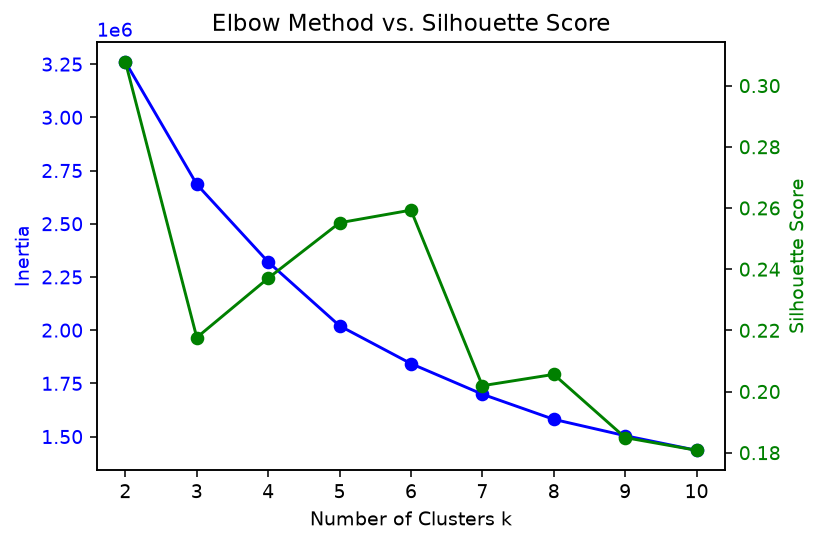
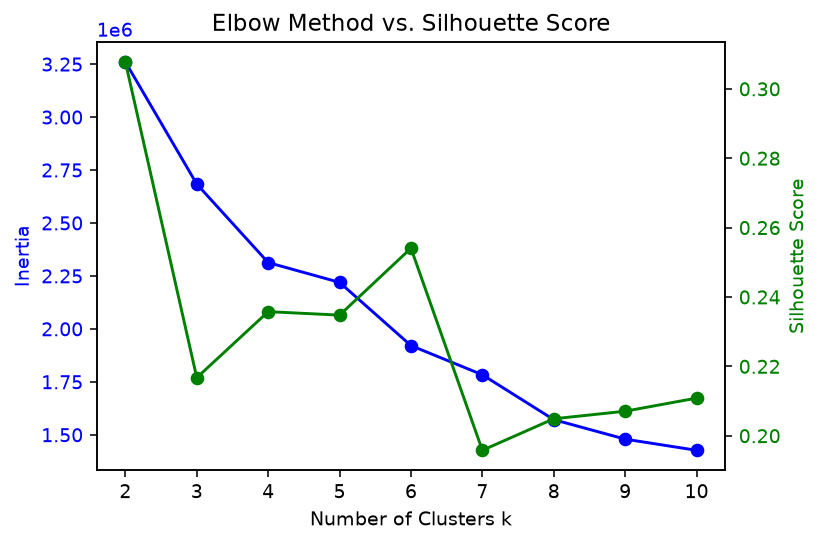
Redid KMeans and DBSCAN (3rd times the charm), updates plots, feature averages and added a legend to KMeans clustering plot (Not dbscan as over 20 clusters).

diff --git a/clustering/clusteringDBSCAN.py b/clustering/clusteringDBSCAN.py
@@ -12,16 +12,15 @@ from sklearn.decomposition import PCA
 pd.set_option('display.max_columns', 120)
 pd.set_option('display.width', 160)
 
-DATASET = "C:/Users/lollo/Documents/School/Comp tech/Assignment2/final_dataset.csv"
+DATASET = "data/processed/final_dataset.csv"
 essays = pd.read_csv(DATASET)
 
 # print(essays.head(10))
 
 # print(essays.columns.tolist())
 
-# print("dtypes ", set(essays.dtypes.astype(str))) # still has string
-# print("missing ", essays.isnull().sum().sum()) # 0
-# print("duplicates ", essays.duplicated().sum()) # 0
+# print("missing: ", essays.isnull().sum().sum()) # 0
+# print("duplicates: ", essays.duplicated().sum()) # 0
 
 CHARTS = "charts"
 os.makedirs(CHARTS, exist_ok=True)
@@ -50,16 +49,16 @@ X_V2_scaled = StandardScaler().fit_transform(X_V2)
 
 # plt.plot(np.sort(distance[:, -1]))
 # plt.ylim(0, 4)
-# # plt.axhline(0.3, color="pink", ls="--")
+# plt.axhline(1, color="pink", ls="--")
 # plt.xlabel("points, sorted by distance to their 16th neighbour")
 # plt.ylabel("distance")
 # save("init_k_distance.png")
 
 # | Test For Best Epsilon Number | 
 
-# X_test_sample = X_V2_scaled[np.random.RandomState(42).choice(len(X_V2_scaled), 50000, replace=False)]
+# X_test_sample = X_V2_scaled[np.random.RandomState(42).choice(len(X_V2_scaled), 150000, replace=False)]
 
-# for eps in [0.5, 0.8, 1, 1.3 , 1.5]:
+# for eps in [0.5, 0.8, 1, 1.3]:
 #     print(f"eps={eps}: ")
 #     test = DBSCAN(eps=eps, min_samples=16).fit_predict(X_test_sample)
 #     n_clusters = len(set(test)) - (1 if -1 in test else 0)
@@ -69,31 +68,19 @@ X_V2_scaled = StandardScaler().fit_transform(X_V2)
     
 # | Results | 
 # eps=0.5: 
-# Found 17 clusters.
-# Noise is: 15226 (30.5%)
+# Found 43 clusters.
+# Noise is: 28379 (18.9%)
 # eps=0.8: 
-# Found 13 clusters.
-# Noise is: 4652 (9.3%)
-# eps=1:  Picking 1 for its reasonable noise % and cluster count.
-# Found 13 clusters.
-# Noise is: 2413 (4.8%)
+# Found 28 clusters.
+# Noise is: 7576 (5.1%)
+# eps=1: 
+# Found 22 clusters.
+# Noise is: 3771 (2.5%)
 # eps=1.3: 
-# Found 10 clusters.
-# Noise is: 1118 (2.2%)
-# eps=1.5: 
-# Found 11 clusters.
-# Noise is: 721 (1.4%)    
+# Found 18 clusters.
+# Noise is: 1473 (1.0%) 
 
-# | Check Outliers & Their Validity | 
-# print(np.sort(distance[:, -1])[-30:])
-# outlier_pos = np.where(distance[:, -1] > 20)
-# print(outlier_pos)
-# # All printed strange strings of random alphanumeric strings and ending with "Please explain like im five."
-# print("1:", ai_gen_essays.iloc[441145]['text'])
-# print("\n 2:", ai_gen_essays.iloc[484810]['text'])
-# print("\n 3:",ai_gen_essays.iloc[509270]['text'])
-# print("\n 4:",ai_gen_essays.iloc[512775]['text'])
-# print("\n 5:",ai_gen_essays.iloc[514742]['text'])
+
 
 # | DBSCAN Clustering :D | 
 
@@ -113,20 +100,22 @@ print(f"Noise is: {noise} ({noise/len(db):.1%})")
 
 sample_set['dbscan_cluster'] = db
 
-# overall, spread = X_V2.mean(), X_V2.std()
-# for c in sorted(sample_set.dbscan_cluster.unique()):
-#     g = sample_set[sample_set.dbscan_cluster == c]
-#     z = (g[FEATURES_V2].mean() - overall) / spread # in standard deviations
-#     label = "NOISE" if c == -1 else f"cluster {c}" # decide whether actual cluster or noise
-#     print(f"\n{label} n={len(g)}")
-#     print(" more:", z.nlargest(2).round(2).to_dict())
-#     print(" less:", z.nsmallest(2).round(2).to_dict())
+overall, spread = X_V2.mean(), X_V2.std()
+for c in sorted(sample_set.dbscan_cluster.unique()):
+    g = sample_set[sample_set.dbscan_cluster == c]
+    z = (g[FEATURES_V2].mean() - overall) / spread # in standard deviations
+    label = "NOISE" if c == -1 else f"cluster {c}" # decide whether actual cluster or noise
+    print(f"\n{label} n={len(g)}")
+    print(" more:", z.nlargest(2).round(2).to_dict())
+    print(" less:", z.nsmallest(2).round(2).to_dict())
     
 
-# P = PCA(n_components=2, random_state=42).fit_transform(X_Sample)
-# plt.scatter(P[:, 0], P[:, 1], c=db, s=8, cmap="viridis")
-# plt.title('DBSCAN Clustering of AI Generated Class')
-# save("DBSCAN_Cluster_Plot.png")
+P = PCA(n_components=2, random_state=42).fit_transform(X_Sample)
+scatter = plt.scatter(P[:, 0], P[:, 1], c=db, s=8, cmap="viridis")
+# handles, cluster_labels = scatter.legend_elements()
+# plt.legend(handles=handles, labels=cluster_labels, title= "Cluster #")
+plt.title('DBSCAN Clustering of AI Generated Class')
+save("DBSCAN_Cluster_Plot.png")
 
 
 # | Sentence Examples From Each Cluster |
@@ -141,9 +130,9 @@ sample_set['dbscan_cluster'] = db
 
 # | Silhouette Score For DBSCAN |
 
-no_noise = db != -1
-sil_score = silhouette_score(X_Sample[no_noise], db[no_noise], sample_size=20000, random_state=42)
-print(f"Silhouette Score (No Noise): {sil_score:.3f}") # Silhouette Score (No Noise): 0.201
+# no_noise = db != -1
+# sil_score = silhouette_score(X_Sample[no_noise], db[no_noise], sample_size=20000, random_state=42)
+# print(f"Silhouette Score (No Noise): {sil_score:.3f}") # Silhouette Score (No Noise): 0.201
 
-sil_score = silhouette_score(X_Sample, db, sample_size=20000, random_state=42)
-print(f"Silhouette Score (Noise): {sil_score:.3f}") # Silhouette Score (Noise): 0.188
+# sil_score = silhouette_score(X_Sample, db, sample_size=20000, random_state=42)
+# print(f"Silhouette Score (Noise): {sil_score:.3f}") # Silhouette Score (Noise): 0.188

diff --git a/clustering/clusteringKmeans.py b/clustering/clusteringKmeans.py
@@ -8,10 +8,11 @@ from sklearn.cluster import KMeans
 from sklearn.metrics import silhouette_score
 from sklearn.decomposition import PCA
 
+
 pd.set_option('display.max_columns', 120)
 pd.set_option('display.width', 160)
 
-DATASET = "C:/Users/lollo/Documents/School/Comp tech/Assignment2/final_dataset.csv"
+DATASET = "data/processed/final_dataset.csv"
 essays = pd.read_csv(DATASET)
 
 # print(essays.head(10))
@@ -90,7 +91,7 @@ ai_gen_essays = essays[essays['label'] == 1].copy()
 # ax2.set_ylabel('Silhouette Score', color='g')
 # ax2.tick_params(axis='y', labelcolor='g')
 
-# # Title and layout
+# # Title and Saved Plot :D
 # plt.title('Elbow Method vs. Silhouette Score')
 # save("Elbow_vs_Silhouette_V1.png")
 
@@ -131,24 +132,24 @@ X_V2_scaled = StandardScaler().fit_transform(X_V2)
 # ax2.set_ylabel('Silhouette Score', color='g')
 # ax2.tick_params(axis='y', labelcolor='g')
 
-# # Title and layout
+# # Title and Saved Plot :D
 # plt.title('Elbow Method vs. Silhouette Score')
 # save("Elbow_vs_Silhouette_V2.png")
 
 # | Test of k to check peak Silhouette score |
 
-# model = KMeans(n_clusters=6, random_state=42)
+# model = KMeans(n_clusters=5, random_state=42)
 # pred_labels = model.fit_predict(X_V2_scaled)
 # sil_score = silhouette_score(X_V2_scaled, pred_labels, sample_size=20000, random_state=42)
-# print("Silhouette Score:", sil_score) # Silhouette Score:  0.2592969154434338
+# print("Silhouette Score:", sil_score) # Silhouette Score: 0.2347677488470225
 
 # | Check validity of Clusters depending on K |
 # for k in [2, 5, 6]:
 #     test = KMeans(k, n_init=10, random_state=42).fit_predict(X_V2_scaled)
 #     print(f"\n k={k}", np.bincount(test))    
-#  k=2 [268752 207317]
-#  k=5 [ 41407 220837  40695  23443 149687]
-#  k=6 [ 40593 217096  40585  29473 146015   2307]
+#  k=2 [267412 208657]
+#  k=5 [216066  41991 151827  40675  25510]
+#  k=6 [ 40561 147707 214512   2315  40341  30633]
 
 # | Cluster Plot & Cluster Descirptions |
 
@@ -164,7 +165,9 @@ for c in sorted(ai_gen_essays.cluster.unique()):
     print(" less:", z.nsmallest(2).round(2).to_dict())
     
 P = PCA(n_components=2, random_state=42).fit_transform(X_V2_scaled)
-plt.scatter(P[:, 0], P[:, 1], c=labels, s=8, cmap="viridis")
+scatter = plt.scatter(P[:, 0], P[:, 1], c=labels, s=8, cmap="viridis")
+handles, cluster_labels = scatter.legend_elements()
+plt.legend(handles=handles, labels=cluster_labels, title= "Cluster #")
 plt.title('Clustering of AI Generated Class')
 save("Cluster_Plot.png")
 
@@ -177,5 +180,3 @@ for c in sorted(ai_gen_essays.cluster.unique()):
     for e in examples:
         print("-", e)
         
-
-# | Check Clusters after being ctaegorized against their prompt/source |
